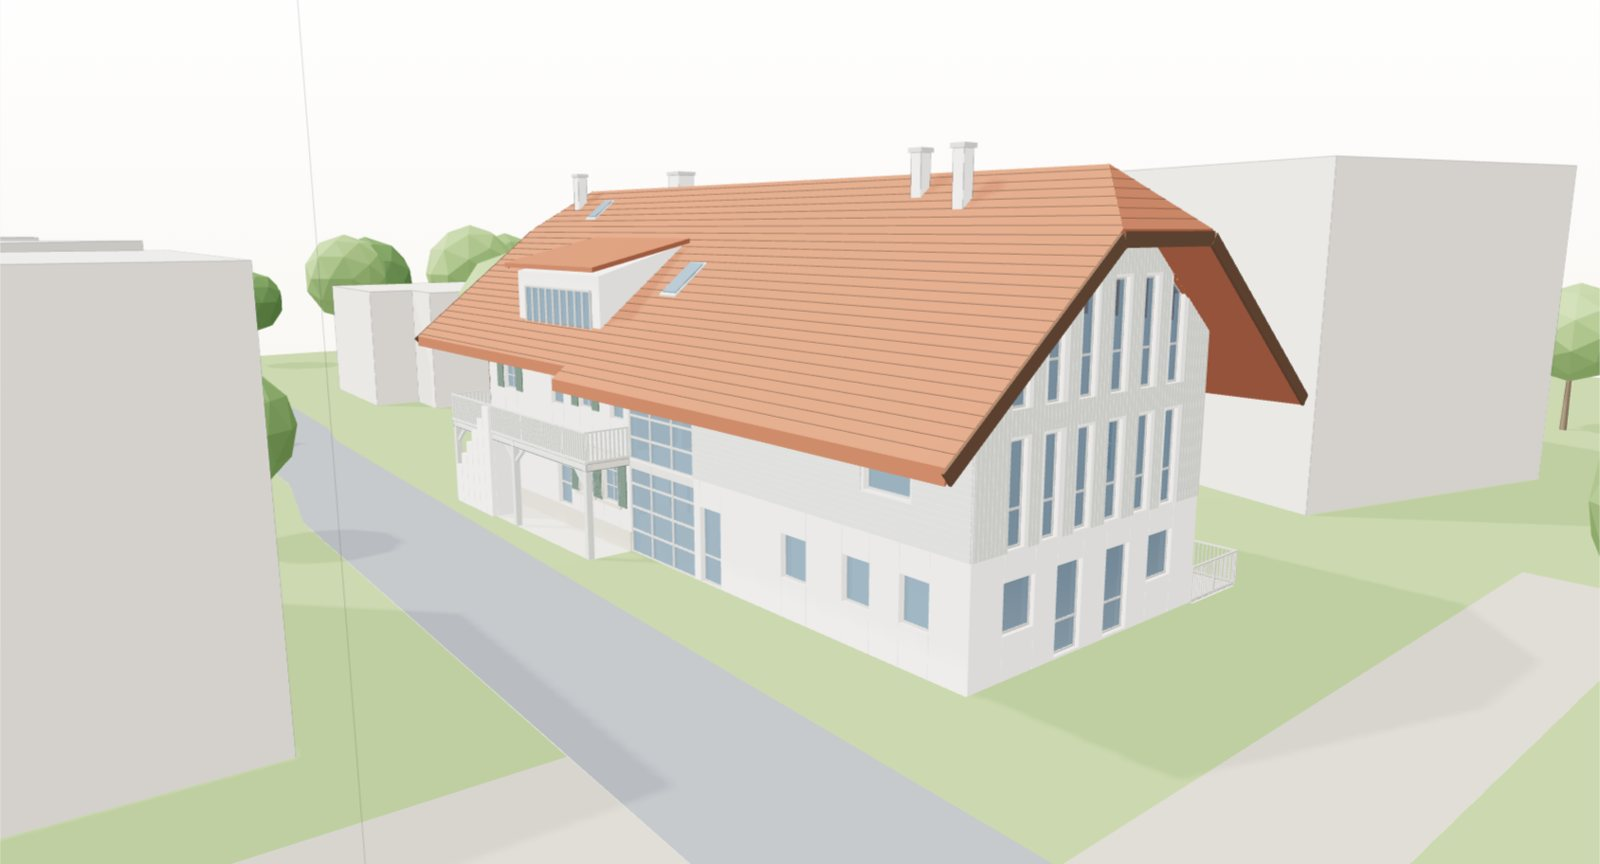
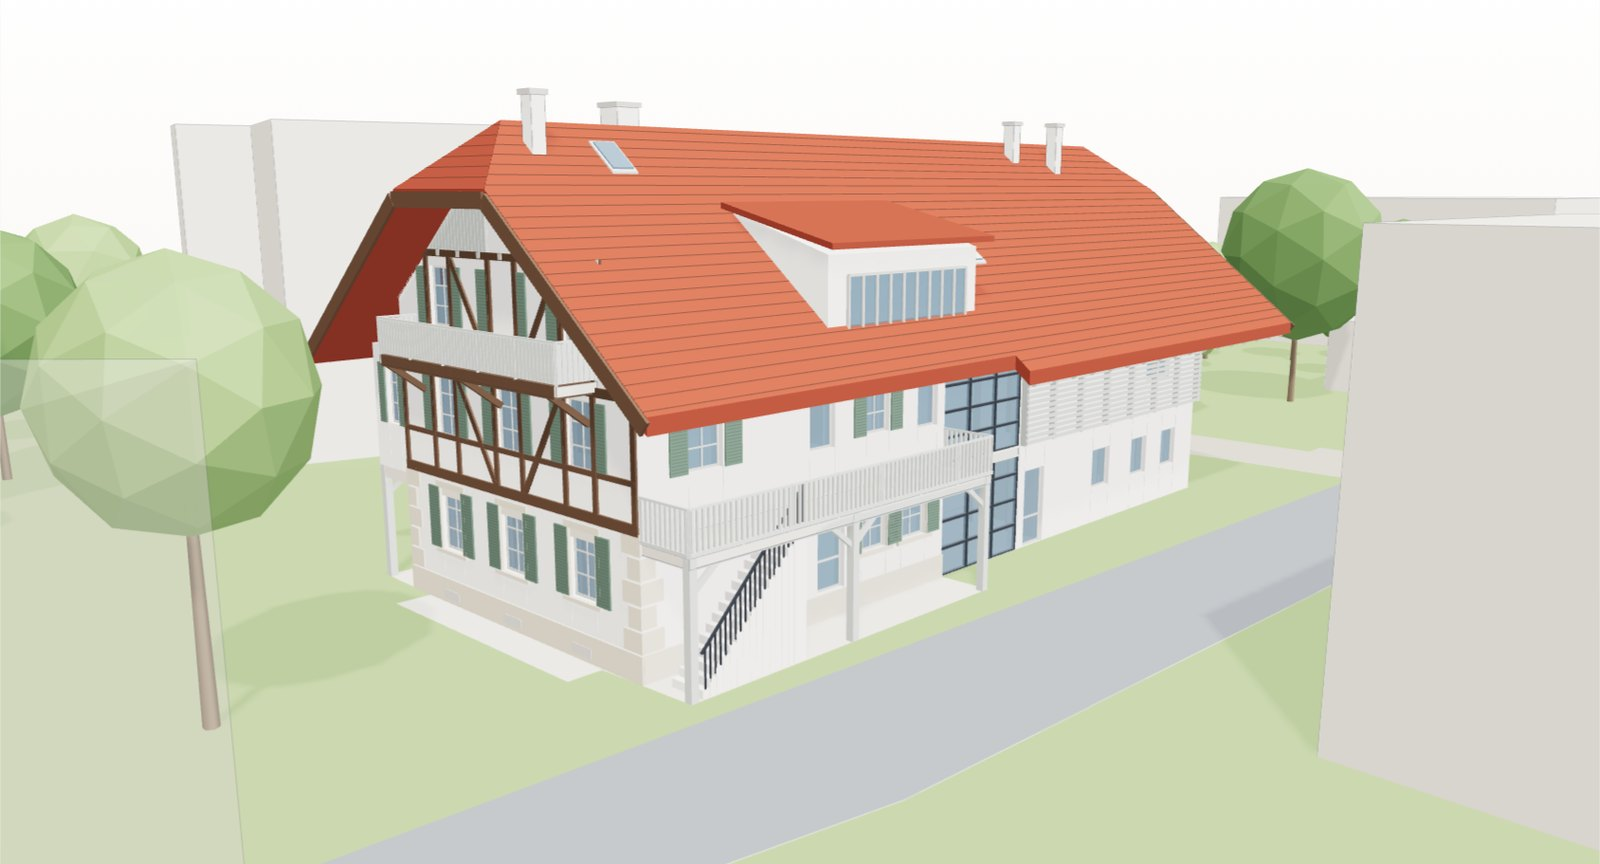
Höheweg: match the model to the photos of the finished house
- Ökonomieteil long sides get the open grey louvre screen seen in the
  2009 photos, with exposed rafters under the deep eaves
- NO gable overhang carried on braces; stair gets a steel railing
  instead of a solid parapet; red clay tiles as re-roofed
- Zwischenbau curtain wall keeps dark metal frames (new cframe material)
- The NW dormer over the Zwischenbau is the covered roof terrace from
  the DG plan: open front with parapet, glazing set back, roof cut out
  (roof faces now support holes)
- New cover and a before/after render that matches the 2000 photo

Claude-Session: https://claude.ai/code/session_017iE6WV9ddRYZx5X7ewEkM9

diff --git a/src/lib/modelScene.js b/src/lib/modelScene.js
@@ -65,6 +65,8 @@ export function buildModel(THREE, mergeGeometries, data, { style = 'model', scal
         lineSoft: keep(new THREE.LineBasicMaterial({ color: 0x2b3440, transparent: true, opacity: 0.16 })),
       };
 
+  // glazed curtain walls keep dark metal frames even where the windows are painted light
+  mats.cframe = blueprint ? mats.frame : keep(mats.frame.clone());
   if (!blueprint && data.frameColor != null) mats.frame.color.setHex(data.frameColor);
   if (!blueprint && data.woodColor != null) mats.wood.color.setHex(data.woodColor); // painted timber (Laube, cladding)
 
@@ -201,7 +203,7 @@ export function buildModel(THREE, mergeGeometries, data, { style = 'model', scal
     const head0 = Math.min(lv.head ?? 2.35, h - 0.1);
     const solid = [];
     const glass = [];
-    const frame = [];
+    const frame = [], cframe = [];
     const panels = [];
     const blinds = [];
     const slats = [];
@@ -272,7 +274,7 @@ export function buildModel(THREE, mergeGeometries, data, { style = 'model', scal
     (lv.curtains || []).forEach(([x1, z1, x2, z2, cs = 0, ch = h - 0.4]) => {
       const seg = segment([x1, z1, x2, z2], lv.footprint);
       solid.push(segBox(seg, 0, seg.L, ch, h, -T, 0));
-      curtain(seg, cs, ch, -0.08, glass, frame);
+      curtain(seg, cs, ch, -0.08, glass, cframe);
     });
     (lv.doors || []).forEach(([x1, z1, x2, z2, ds = 0, dh = 3, glassRow = -1]) => {
       const seg = segment([x1, z1, x2, z2], lv.footprint);
@@ -291,6 +293,16 @@ export function buildModel(THREE, mergeGeometries, data, { style = 'model', scal
         const ua = (o[0] - x1) * dx + (o[1] - z1) * dz, ub = (o[2] - x1) * dx + (o[3] - z1) * dz;
         holes.push([Math.min(ua, ub) - 0.08, Math.max(ua, ub) + 0.08, (o[4] ?? sill0) - 0.08, Math.min(o[5] ?? head0, h - 0.1) + 0.08]);
       });
+      if (dirH === 2) {
+        // open louvre screen (Lattenrost) standing off the wall: posts every ~1.5 m, 10 cm slats with 6 cm gaps
+        const np = Math.max(1, Math.round(seg.L / 1.5));
+        for (let i = 0; i <= np; i++) {
+          const u = Math.min(seg.L - 0.06, Math.max(0.06, (seg.L * i) / np));
+          boards.push(segBox(seg, u - 0.06, u + 0.06, y0, y1, 0.02, 0.2));
+        }
+        for (let y = y0 + 0.04; y < y1 - 0.05; y += 0.16) boards.push(segBox(seg, 0, seg.L, y, y + 0.1, 0.2, 0.24));
+        return;
+      }
       if (dirH) {
         // horizontal boards (Stülpschalung look): courses of 16 cm, cut around the openings
         for (let y = y0; y < y1 - 0.02; y += 0.16) {
@@ -329,6 +341,12 @@ export function buildModel(THREE, mergeGeometries, data, { style = 'model', scal
     const frameGeo = merged(clean(frame));
     if (frameGeo) {
       const fm = new THREE.Mesh(frameGeo, mats.frame);
+      fm.castShadow = !blueprint;
+      content.add(fm);
+    }
+    const cframeGeo = merged(clean(cframe));
+    if (cframeGeo) {
+      const fm = new THREE.Mesh(cframeGeo, mats.cframe);
       fm.castShadow = !blueprint;
       content.add(fm);
     }
@@ -453,9 +471,9 @@ export function buildModel(THREE, mergeGeometries, data, { style = 'model', scal
     roofMat = tileMat;
     const faceGeos = [];
     const courses = [];
-    pitched.faces.forEach(({ pts, plane }) => {
+    pitched.faces.forEach(({ pts, plane, holes = [] }) => {
       const [a, b, c] = pitched.planes[plane];
-      const g = new THREE.ExtrudeGeometry(shapeOf({ o: pts, h: [] }), { depth: th, bevelEnabled: false, curveSegments: 1 });
+      const g = new THREE.ExtrudeGeometry(shapeOf({ o: pts, h: holes }), { depth: th, bevelEnabled: false, curveSegments: 1 });
       g.rotateX(-Math.PI / 2);
       const pos = g.attributes.position;
       for (let i = 0; i < pos.count; i++) {
@@ -471,16 +489,18 @@ export function buildModel(THREE, mergeGeometries, data, { style = 'model', scal
         const dx = a / slope, dz = b / slope;           // up the slope (plan)
         const xs = pts.map((q) => q[0] * dx + q[1] * dz);
         const lo = Math.min(...xs), hi = Math.max(...xs);
-        const us = pts.map((q) => q[0] * ux + q[1] * uz);
         const step = 0.33 * Math.cos(Math.atan(slope));
         for (let s = lo + step; s < hi - 0.02; s += step) {
           // clip the course to the face: crossings of the outline, paired inside-out
           const cuts = [];
-          for (let i = 0; i < pts.length; i++) {
-            const j = (i + 1) % pts.length;
-            const si = xs[i] - s, sj = xs[j] - s;
-            if ((si < 0) !== (sj < 0)) cuts.push(us[i] + (us[j] - us[i]) * (si / (si - sj)));
-          }
+          [pts, ...holes].forEach((ring) => {
+            const rx = ring.map((q) => q[0] * dx + q[1] * dz), ru = ring.map((q) => q[0] * ux + q[1] * uz);
+            for (let i = 0; i < ring.length; i++) {
+              const j = (i + 1) % ring.length;
+              const si = rx[i] - s, sj = rx[j] - s;
+              if ((si < 0) !== (sj < 0)) cuts.push(ru[i] + (ru[j] - ru[i]) * (si / (si - sj)));
+            }
+          });
           cuts.sort((p, q) => p - q);
           for (let k = 0; k + 1 < cuts.length; k += 2) {
             [cuts[k], cuts[k + 1]].forEach((u) => {
@@ -748,10 +768,38 @@ export function buildModel(THREE, mergeGeometries, data, { style = 'model', scal
         g.rotateY(Math.PI / 2);
         return g;
       };
-      const body = prof([[zf, yb], [zf, yt], [zb, ytb], [zb, yb]]);
-      body.scale(x1 - x0, 1, 1);
-      body.translate(x0, 0, 0);
-      roof.add(meshWithEdges(keep(body), mats.wall, blueprint ? mats.line : null, 30));
+      const part = (pts, xa, xb) => {
+        const g = prof(pts);
+        g.scale(xb - xa, 1, 1);
+        g.translate(xa, 0, 0);
+        return g;
+      };
+      if (d.open) {
+        // roof loggia (gedeckte Dachterrasse): cheeks, lintel, parapet and a glazed back wall set in at zg
+        const [ypar, zg] = d.open, c = 0.3, yl = yt - 0.3, yf = ypar - 1.0, xa = x0 + c, xb = x1 - c;
+        const pieces = [
+          part([[zf, yb], [zf, yt], [zb, ytb], [zb, yb]], x0, xa),
+          part([[zf, yb], [zf, yt], [zb, ytb], [zb, yb]], xb, x1),
+          part([[zf, yl], [zf, yt], [zb, ytb], [zb, yl]], xa, xb),
+          part([[zf, yb], [zf, ypar], [zf - dir * 0.27, ypar], [zf - dir * 0.27, yb]], xa, xb),
+          part([[zf - dir * 0.27, yb], [zf - dir * 0.27, yf], [zg, yf], [zg, yb]], xa, xb),
+          part([[zg, yb], [zg, yl], [zb, yl], [zb, yb]], xa, xb),
+        ];
+        roof.add(meshWithEdges(merged(pieces), mats.wall, blueprint ? mats.line : null, 30));
+        const gl = new THREE.BoxGeometry(xb - xa - 0.1, yl - yf, 0.04);
+        gl.translate((xa + xb) / 2, (yl + yf) / 2 - roofY, zg + dir * 0.02);
+        roof.add(new THREE.Mesh(keep(gl), mats.glass));
+        const n = Math.max(1, Math.round((xb - xa) / 0.9));
+        const fr = [];
+        for (let i = 0; i <= n; i++) {
+          const f = new THREE.BoxGeometry(0.07, yl - yf, 0.08);
+          f.translate(xa + 0.05 + ((xb - xa - 0.1) * i) / n, (yl + yf) / 2 - roofY, zg + dir * 0.04);
+          fr.push(f);
+        }
+        roof.add(new THREE.Mesh(merged(fr), mats.cframe));
+      } else {
+        roof.add(meshWithEdges(keep(part([[zf, yb], [zf, yt], [zb, ytb], [zb, yb]], x0, x1)), mats.wall, blueprint ? mats.line : null, 30));
+      }
       const o = 0.35, t = 0.14, k = (ytb - yt) / (zb - zf);
       const cap = prof([[zf + dir * o, yt - k * dir * o + 0.02], [zb, ytb + 0.02], [zb, ytb + 0.02 + t], [zf + dir * o, yt - k * dir * o + 0.02 + t]]);
       cap.scale(x1 - x0 + 0.5, 1, 1);
